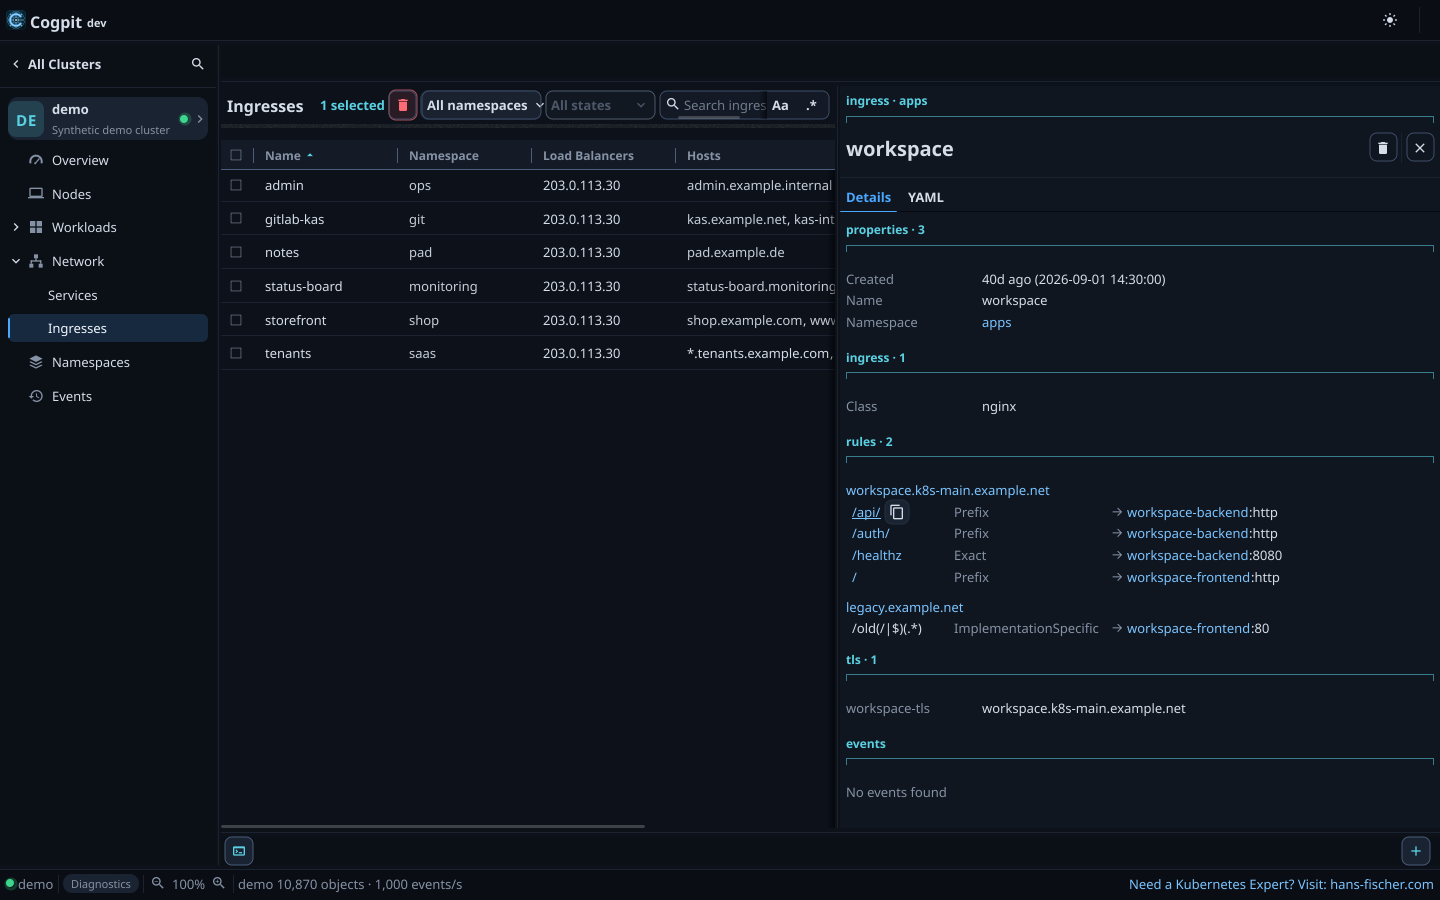
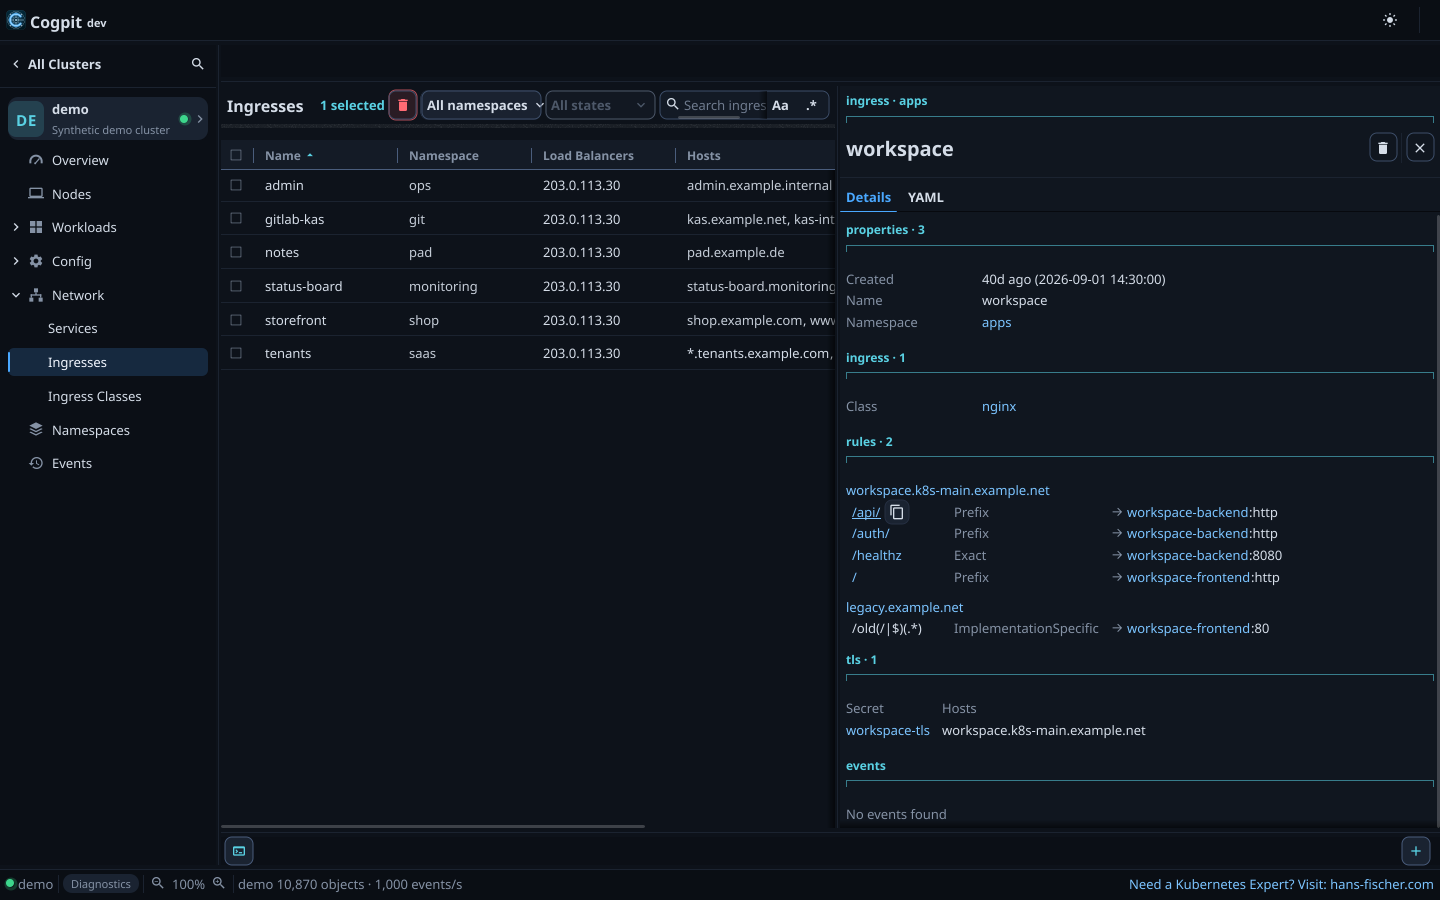
feat(ingress): the drawer's class links to its IngressClass and each TLS entry to its Secret (#133)
The Ingress section's Class is a link to the IngressClass of that name, also when only the older
kubernetes.io/ingress.class annotation names it. TLS becomes a table with a row per entry: the
Secret's name, a link to the Secret in the Ingress's namespace, and its hosts as text. Recorded in
D-137.

diff --git a/internal/model/kinds/ingresses.go b/internal/model/kinds/ingresses.go
@@ -18,6 +18,8 @@ const (
 	ingressClassAnnotation = "kubernetes.io/ingress.class"
 	// anyHost stands for a rule without a host: it matches every host.
 	anyHost = "*"
+	// fieldHosts is the hosts of a TLS entry and the id of the columns that list hosts.
+	fieldHosts = "hosts"
 )
 
 // ingresses has the columns of Lens's documentation (not captured), with Hosts in the place of
@@ -37,7 +39,7 @@ var ingresses = &model.KindProfile{
 		namespaceColumn,
 		{ID: "loadBalancers", Title: "Load Balancers", Type: model.ColumnText},
 		// Room for two or three hosts before the cell cuts off; the full list is the tooltip.
-		{ID: "hosts", Title: "Hosts", Type: model.ColumnText, Width: 340},
+		{ID: fieldHosts, Title: "Hosts", Type: model.ColumnText, Width: 340},
 		ageColumn,
 	},
 	Cells: ingressCells,
@@ -129,7 +131,7 @@ func ingressHostAddress(obj any, host string) *url.URL {
 func ingressTLSCovers(obj any, host string) bool {
 	_, parent, _ := strings.Cut(host, ".")
 	for _, t := range model.NestedSlice(obj, "spec", "tls") {
-		hosts := model.NestedStrings(t, "hosts")
+		hosts := model.NestedStrings(t, fieldHosts)
 		if len(hosts) == 0 {
 			return true
 		}
@@ -188,7 +190,7 @@ func ingressHosts(obj any) []string {
 		out = appendUnique(out, model.NestedString(r, "host"))
 	}
 	for _, t := range model.NestedSlice(obj, "spec", "tls") {
-		out = appendUnique(out, model.NestedStrings(t, "hosts")...)
+		out = appendUnique(out, model.NestedStrings(t, fieldHosts)...)
 	}
 	return out
 }
@@ -216,7 +218,10 @@ func ingressAddresses(obj any) []string {
 
 func ingressDetail(obj *unstructured.Unstructured) []model.DetailSection {
 	var d detailItems
-	d.add("Class", ingressClassName(obj))
+	// The class links to its IngressClass even when only the older annotation names it and no
+	// such object exists: the drawer then says the object is missing.
+	class := ingressClassName(obj)
+	d.put(linkedItem("Class", class, linkTo(keyIngressClasses, "", class)))
 	d.add("Load Balancers", strings.Join(ingressLoadBalancerLines(obj), "\n"))
 	d.add("Default Backend", ingressBackendDetail(model.NestedMap(obj, "spec", "defaultBackend")))
 	sections := withSection(nil, "Ingress", d)
@@ -226,21 +231,33 @@ func ingressDetail(obj *unstructured.Unstructured) []model.DetailSection {
 			Count: len(model.NestedSlice(obj, "spec", "rules"))})
 	}
 
-	// TLS entries name the Secret that holds the certificate; Cogpit shows the name, never the
-	// Secret's data.
-	var tls detailItems
-	for _, t := range model.NestedSlice(obj, "spec", "tls") {
-		secret := model.NestedString(t, "secretName")
-		if secret == "" {
-			secret = "(no secret)"
+	// TLS entries name the Secret that holds the certificate, a link to it; Cogpit shows the
+	// name, never the Secret's data. An entry without one takes the controller's default
+	// certificate.
+	entries := model.NestedSlice(obj, "spec", "tls")
+	rows := make([][]model.Cell, 0, len(entries))
+	for _, t := range entries {
+		secret := model.Cell{Text: "(no secret)"}
+		if name := model.NestedString(t, "secretName"); name != "" {
+			secret = model.Cell{Text: name, Link: linkTo(keySecrets, obj.GetNamespace(), name)}
 		}
-		hosts := model.NestedStrings(t, "hosts")
+		hosts := model.NestedStrings(t, fieldHosts)
 		if len(hosts) == 0 {
 			hosts = []string{anyHost}
 		}
-		tls.add(secret, strings.Join(hosts, "\n"))
+		rows = append(rows, []model.Cell{secret, {Text: strings.Join(hosts, "\n")}})
 	}
-	return withSection(sections, "TLS", tls)
+	if len(rows) > 0 {
+		sections = append(sections, model.DetailSection{Title: "TLS", Table: model.CellTable(ingressTLSColumns, rows)})
+	}
+	return sections
+}
+
+// ingressTLSColumns are the columns of the TLS section: a row per entry, its Secret and its hosts
+// a line each.
+var ingressTLSColumns = []model.Column{
+	{ID: "tlsSecret", Title: titleSecret, Type: model.ColumnText},
+	{ID: fieldHosts, Title: "Hosts", Type: model.ColumnText},
 }
 
 // TitleIngressRules is the title of an Ingress's Rules section, which the GUI draws in its own way.

diff --git a/internal/ui/fyneui/ingresses_test.go b/internal/ui/fyneui/ingresses_test.go
@@ -19,8 +19,8 @@ import (
 )
 
 // The Ingresses view's Hosts column and an Ingress's drawer, whose hosts link to the browser
-// (model.WebLink, DetailItem.NameURL; D-137). Every host is made up. PNGs:
-// testdata/{ingresses,ingress_drawer}_dark.png.
+// (model.WebLink; D-137) and whose class and TLS Secrets link to their objects. Every host is made
+// up. PNGs: testdata/{ingresses,ingress_drawer}_dark.png.
 
 // fixtureIngressObjects: hosts with and without TLS, two rules and two paths, a wildcard host and a
 // rule without a host, a host wider than the drawer's name column.
@@ -63,7 +63,10 @@ func fixtureIngressObjects() []*unstructured.Unstructured {
 // ingressFake is a connected cluster that serves Ingresses, the fixture's in its list and drawers.
 func ingressFake(t testing.TB) *fakeEngine {
 	f := connectedFake(t, 1)
-	f.kinds = append(f.kinds, kindInfo{Kind: "ingresses", Title: "Ingresses", APIKind: "Ingress", Group: "networking.k8s.io", Version: "v1", Namespaced: true})
+	f.kinds = append(f.kinds,
+		kindInfo{Kind: "ingresses", Title: "Ingresses", APIKind: "Ingress", Group: "networking.k8s.io", Version: "v1", Namespaced: true},
+		kindInfo{Kind: "ingressclasses", Title: "Ingress Classes", APIKind: "IngressClass", Group: "networking.k8s.io", Version: "v1"},
+		kindInfo{Kind: "secrets", Title: "Secrets", APIKind: "Secret", Version: "v1", Namespaced: true})
 	objs := fixtureIngressObjects()
 	f.tables["ingresses"] = kindSnapshot(t, "ingresses", objs)
 	p, _ := kinds.ByKey("ingresses")
@@ -219,6 +222,38 @@ func TestIngressRulesLinks(t *testing.T) {
 	test.Tap(lines[len(lines)-1])
 	if got := (*opened)[len(*opened)-1]; got != "http://"+long {
 		t.Fatalf("opened %q", got)
+	}
+}
+
+// TestIngressClassAndTLSSecretLinks: the drawer's Class links to the IngressClass and a TLS
+// entry's Secret to the Secret in the Ingress's namespace; the hosts beside it stay text.
+func TestIngressClassAndTLSSecretLinks(t *testing.T) {
+	f := ingressFake(t)
+	ref := withIngressDetail(t, f, "workspace", []any{"workspace.example.net"},
+		map[string]any{"host": "workspace.example.net", "http": map[string]any{"paths": []any{ingressPath("/", "Prefix", "web", int64(80))}}})
+	f.ui.Selected, f.ui.Drawer = []model.ObjectRef{ref}, &ref
+	sh, _, q := newTestShell(t, f, Options{})
+	q.until(t, "the drawer", func() bool { return drawerLinks(sh)["workspace-tls"] != nil })
+
+	links := drawerLinks(sh)
+	if links["nginx"] == nil || links["workspace.example.net"] == nil {
+		t.Fatalf("links %q", slices.Collect(maps.Keys(links)))
+	}
+	if !slices.Contains(drawerTexts(sh), "workspace.example.net") {
+		t.Errorf("the TLS entry's host is not text: %q", drawerTexts(sh))
+	}
+	test.Tap(links["nginx"])
+	q.until(t, "the class's ui.navigate", func() bool { return len(f.callsOf("ui.navigate")) == 1 })
+	test.Tap(links["workspace-tls"])
+	q.until(t, "the Secret's ui.navigate", func() bool { return len(f.callsOf("ui.navigate")) == 2 })
+	want := []model.ObjectRef{
+		{Context: "demo", Kind: "ingressclasses", Name: "nginx"},
+		{Context: "demo", Kind: "secrets", Namespace: "apps", Name: "workspace-tls"},
+	}
+	for i, c := range f.callsOf("ui.navigate") {
+		if got := decodeParams[refParams](t, c).Ref; got != want[i] {
+			t.Errorf("link %d went to %+v, want %+v", i, got, want[i])
+		}
 	}
 }
 

diff --git a/internal/model/kinds/ingressclasses.go b/internal/model/kinds/ingressclasses.go
@@ -15,6 +15,8 @@ const (
 	// scopeCluster is what the API server defaults spec.parameters.scope to.
 	scopeCluster = "Cluster"
 	idDefault    = "default"
+	// keyIngressClasses is the kind key and resource of Ingress Classes.
+	keyIngressClasses = "ingressclasses"
 )
 
 // ingressClasses has the columns captured from Lens on 2026-10-11: Name, a star column, an empty
@@ -24,10 +26,10 @@ const (
 // colour emoji font, which ignores theme colours), so the column is titled Default and reads
 // "Yes". Ingress classes have no state, so no status token.
 var ingressClasses = &model.KindProfile{
-	Key:      "ingressclasses",
+	Key:      keyIngressClasses,
 	Group:    groupNetworking,
 	Version:  "v1",
-	Resource: "ingressclasses",
+	Resource: keyIngressClasses,
 	Kind:     "IngressClass",
 	Title:    "Ingress Classes",
 	Columns: []model.Column{

diff --git a/docs/parity/resource-parity.md b/docs/parity/resource-parity.md
@@ -108,7 +108,7 @@ related resources) are superseded by Cogpit's built-in agent
 | Services | `v1` Service | Name, Namespace, Type, Cluster IP, Ports, External IP, Selector, Age, Status | Forward a port `service.portForward`; detail tabs: Endpoint Slices, Routes | partial: list as documented, drawer not captured; Endpoint Slices a drawer section, not a tab; no Routes; Forward from each TCP port through a ready pod of the selector, switching pods when it goes ([`services.go`](../../internal/model/kinds/services.go), [`portforward.go`](../../internal/engine/commands/portforward.go), `TestServiceEndpointSlices`, `TestServiceForwardMovesToAnotherPod`, `TestKindPortForward`, `TestRealWorkloadActions`) |
 | Endpoint Slices | `discovery.k8s.io/v1` EndpointSlice | Name, Namespace, Address Type, Endpoints, Ports, Age | – | partial: documented columns, not captured; the Endpoints and Ports formats (kubectl's) and the drawer's endpoints table inferred ([`endpointslices.go`](../../internal/model/kinds/endpointslices.go), `TestEndpointSliceTexts`, `TestEndpointSliceDrawer`, `TestGolden`, `FuzzEndpointSlices`) |
 | Endpoints | `v1` Endpoints | Name, Namespace, Endpoints, Age | – | partial: documented columns, not captured; the Endpoints format (kubectl's) and the drawer inferred; the API server's deprecation warning for v1 Endpoints logged once per connection ([`endpoints.go`](../../internal/model/kinds/endpoints.go), [`warnings.go`](../../internal/cluster/warnings.go), `TestEndpointsTexts`, `TestEndpointsDrawerCapped`, `TestConnectHandlesWarnings`, `TestKindStorageAndNetworkViews`) |
-| Ingresses | `networking.k8s.io/v1` Ingress | Name, Namespace, Load Balancers, Rules, Age | – | partial: documented columns, not captured; Hosts in the place of Rules by the owner's choice ([D-137](../developer/decisions.md#d-137-an-ingresss-hosts-links-to-the-browser)): each rule's host once, a comma apart, each a link to the browser, `*` and wildcard hosts text; the paths and backends are the drawer's, which shows each host once across its width, a link, with its paths under it in columns: the path, a link to the host's address with the path (an `ImplementationSpecific` path with characters of a regular expression text), its type, and the backend, its Service a link; Load Balancers "-" without an address (inferred); no status token ([`ingresses.go`](../../internal/model/kinds/ingresses.go), [`ingressrules.go`](../../internal/ui/fyneui/ingressrules.go), `TestIngressTexts`, `TestIngressColumns`, `TestIngressHostLinks`, `TestIngressRulesTable`, `TestGolden`, `TestIngressHostsOpenInTheBrowser`, `TestIngressRulesLinks`) |
+| Ingresses | `networking.k8s.io/v1` Ingress | Name, Namespace, Load Balancers, Rules, Age | – | partial: documented columns, not captured; Hosts in the place of Rules by the owner's choice ([D-137](../developer/decisions.md#d-137-an-ingresss-hosts-links-to-the-browser)): each rule's host once, a comma apart, each a link to the browser, `*` and wildcard hosts text; the paths and backends are the drawer's, which shows each host once across its width, a link, with its paths under it in columns: the path, a link to the host's address with the path (an `ImplementationSpecific` path with characters of a regular expression text), its type, and the backend, its Service a link; the drawer's Class a link to its IngressClass, TLS a table of each entry's Secret, a link, and its hosts; Load Balancers "-" without an address (inferred); no status token ([`ingresses.go`](../../internal/model/kinds/ingresses.go), [`ingressrules.go`](../../internal/ui/fyneui/ingressrules.go), `TestIngressTexts`, `TestIngressColumns`, `TestIngressHostLinks`, `TestIngressRulesTable`, `TestGolden`, `TestIngressHostsOpenInTheBrowser`, `TestIngressRulesLinks`, `TestIngressClassAndTLSSecretLinks`) |
 | Ingress Classes | `networking.k8s.io/v1` IngressClass | Name, (a star column, presumably marking the default class: inferred), Namespace (empty: the kind is cluster-scoped), Controller, API Group, Scope, Kind; no Age column and no namespace filter (captured) | – | partial: captured columns and order, empty Namespace, no Age, no namespace filter; the star column is titled Default and reads "Yes" on the default class (Fyne's bundled fonts have no star glyph) ([`ingressclasses.go`](../../internal/model/kinds/ingressclasses.go), [`tableview.go`](../../internal/ui/fyneui/tableview.go) `updateNamespaceButton`, `TestIngressClassColumns`, `TestIngressClassTexts`, `TestNamespaceFilterHiddenOnClusterScopedViews`) |
 | Network Policies | `networking.k8s.io/v1` NetworkPolicy | Name, Namespace, Policy Types, Age | – | partial: documented columns, not captured; Policy Types defaulted as the API server does; the drawer (a line per rule, a direction without rules a warning) inferred ([`networkpolicies.go`](../../internal/model/kinds/networkpolicies.go), `TestNetworkPolicyTexts`, `TestNetworkPolicyRules`, `TestGolden`, `FuzzNetworkPolicies`) |
 | Port Forwarding | Cogpit's own state, not a kind | Name, Namespace, Kind, Pod Port, Local Port, Protocol, Status | Open `portforward.open`, Edit `portforward.edit`, Stop `portforward.stop`, Delete `portforward.remove` | partial: Cogpit's local kind with the captured columns and row menu; status texts and colours inferred; forwards listen on 127.0.0.1 only and end when Cogpit leaves the context ([`portforwards.go`](../../internal/model/kinds/portforwards.go), `TestPortForwardsProfile`, `TestPortForwardLifecycle`, `TestPortForwardsEndWithTheBackend`, `TestPortForwardingView`, `TestKindPortForward`) |

diff --git a/docs/developer/decisions.md b/docs/developer/decisions.md
@@ -145,7 +145,7 @@ use or feedback changes them ([D-74](#d-74-how-the-leads-decisions-are-reviewed)
 | [D-134](#d-134-the-windows-zoom) | The window's zoom | built: VS Code's zoom via Fyne's canvas scale, 50-210% |
 | [D-135](#d-135-a-stalled-stream-lists) | A stalled stream lists | built: lists by default; streaming opt-in beta, 10 s stall bound |
 | [D-136](#d-136-the-quit-bound) | The quit bound | built: Fyne's teardown bounded at 5 s; Cogpit's own shutdown runs either way |
-| [D-137](#d-137-an-ingresss-hosts-links-to-the-browser) | An Ingress's hosts, links to the browser | built: Hosts column in place of Rules; hosts and paths open on a click, backends link to their Service |
+| [D-137](#d-137-an-ingresss-hosts-links-to-the-browser) | An Ingress's hosts, links to the browser | built: Hosts column in place of Rules; hosts and paths open on a click, backends link to their Service, the class to its IngressClass, a TLS entry to its Secret |
 | [D-138](#d-138-the-alert-boards-cards) | The alert board's cards | built: masonry, one text per alertname, 24-hour history, owner link |
 | [D-139](#d-139-a-volumes-usage-in-its-claims-and-its-own-drawer) | A volume's usage in its claim's and its own drawer | built: kubelet volume stats through Prometheus, chart and usage bar |
 
@@ -5398,8 +5398,8 @@ after Fyne's own handler nothing starts the bound (from Fyne's code, not seen).
 
 **Status:** built · **By:** owner (Hosts in place of Rules, hosts as links in the list and the
 drawer; in the drawer each host once across the details with its paths under it in columns, each
-path a link to the host's address with the path, the backend a link to its Service); lead (open to
-revision) the details below
+path a link to the host's address with the path, the backend a link to its Service; the class and
+each TLS entry's Secret as links to their objects); lead (open to revision) the details below
 
 - **List:** the Ingresses view's Hosts column stands where Lens has Rules: each rule's host once,
   in the rules' order, a comma apart (`model.WebCell`), 340 points wide by default. A rule without
@@ -5413,6 +5413,13 @@ revision) the details below
   port follows as text. A resource backend links whole when it is a built-in kind. A rule without
   paths reads `(no paths)` and the Ingress's default backend, else `(the controller's default
   backend)`. The section's head counts the rules (`DetailSection.Count`), not the rows.
+- **Class and TLS:** the Ingress section's Class is a link to the IngressClass of that name, also
+  when only the older `kubernetes.io/ingress.class` annotation names it; where no such object
+  exists the drawer it opens says the object is missing. TLS is a table with a row per entry
+  (Secret, Hosts): the Secret's name is a link to the Secret in the Ingress's namespace, the hosts
+  are text, a line each (`*` for an entry without hosts); an entry without a Secret reads
+  `(no secret)`, as text. Like every drawer link, both are links only where the cluster serves the
+  kind.
 - **Address:** a host's is `https://<host>` when a TLS entry of the Ingress covers the host (it
   names it, its wildcard covers the host's first label, or it lists no hosts and so takes the
   controller's default certificate for all), else `http://<host>`; no path, no port. Only a host
@@ -5444,7 +5451,11 @@ the rules; in the drawer, the paths as lines of text after the host (`/api (Pref
 — the types and backends do not line up; the full address on each path's row — the host on every
 line again, cut off in the drawer; the port in the Service's link — it names no object;
 https for every host — a host without TLS would open a certificate warning or nothing; the TLS
-section's hosts as links too — they repeat the rules' hosts.
+section's hosts as links too — they repeat the rules' hosts; the TLS Secret as the name of an item
+with the hosts as its value, as before — a drawer item links its value, not its name; the hosts as
+the name and the Secret as the value — the hosts wrap in the 128-point name column; the class
+linked only when an IngressClass of that name exists — the drawer would need the Ingress Classes
+listed for every Ingress, and a missing class is worth seeing.
 
 **Not covered:** a controller that serves TLS for a host the Ingress gives none (a default
 certificate) is opened with http, which such a controller usually redirects; a port the
@@ -5459,7 +5470,8 @@ where a controller reads it otherwise.
 `pointWeb`), [`fyneui/links.go`](../../internal/ui/fyneui/links.go) (`openWebLink`, `nameLink`),
 [`fyneui/ingressrules.go`](../../internal/ui/fyneui/ingressrules.go) ·
 **Tests:** `TestIngressHostLinks`, `TestIngressRulesTable`, `TestIngressTexts`, `TestIngressColumns`,
-`TestIngressHostsOpenInTheBrowser`, `TestIngressRulesLinks`, `TestOpenWebLinkChecksTheAddress`
+`TestIngressHostsOpenInTheBrowser`, `TestIngressRulesLinks`, `TestIngressClassAndTLSSecretLinks`,
+`TestOpenWebLinkChecksTheAddress`, `TestGolden`
 
 ## D-138: The alert board's cards
 
